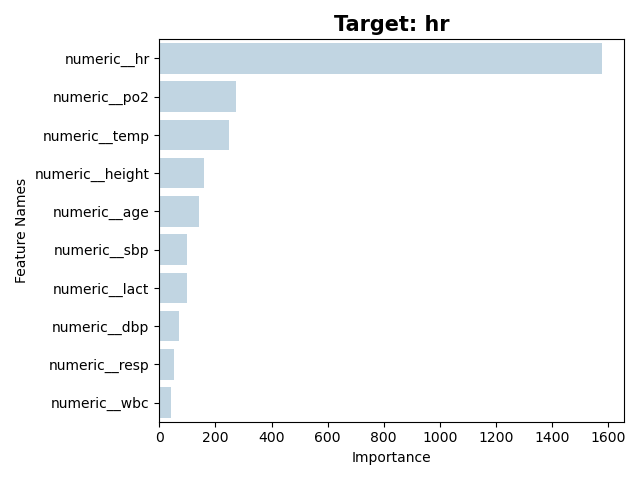
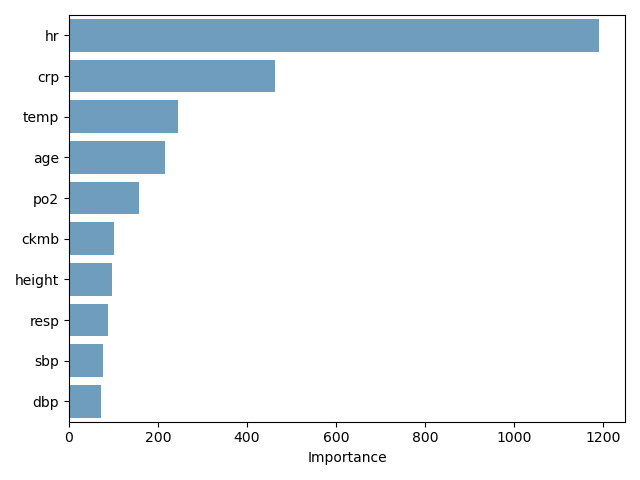
Include RF

diff --git a/Feature Selection/RF_coefs.py b/Feature Selection/RF_coefs.py
@@ -53,8 +53,10 @@ for i, source in enumerate(['eicu', 'mimic', 'miiv', 'hirid']):
     feature_importances = feature_importances.iloc[:10]
     ax.set_title(source)
     sns.barplot(x=feature_importances['Importance'], y=feature_importances['Feature Names'], orient='h', ax=ax, alpha=0.7)
+    ax.set_ylabel("")
 plt.tight_layout()
 plt.savefig('images/barplots/RF_individual_feature_importances.png')
+plt.show()
 
 model = LGBMRegressor(boosting_type='rf', feature_fraction=0.8)
 model.fit(X_all, y_all)
@@ -69,6 +71,7 @@ feature_importances = pd.DataFrame({'Importance': model.feature_importances_,
 feature_importances.sort_values(by='Importance', ascending=False, inplace=True)
 feature_importances = feature_importances.iloc[:10]
 sns.barplot(x=feature_importances['Importance'], y=feature_importances['Feature Names'], orient='h', alpha=0.7)
+plt.ylabel("")
 plt.tight_layout()
 plt.savefig('images/barplots/RF_all_feature_importances.png')
 plt.show()
